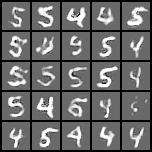
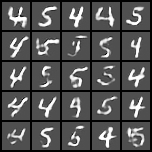
dark gan

diff --git a/discriminative/GAN.py b/discriminative/GAN.py
@@ -9,12 +9,8 @@ from torch.autograd import Variable
 import torch.nn as nn
 import torch
 
-os.makedirs('images', exist_ok=True)
-
-parser = argparse.ArgumentParser()
-opt, unknown = parser.parse_known_args()
 n_epochs = 50
-batch_size = 100
+batch_size = 64
 lr = 0.0002
 b1 = 0.5
 b2 = 0.999
@@ -24,7 +20,7 @@ num_classes = 2
 img_size = 28
 channels = 1
 sample_interval = 400
-threshold = 0.98
+threshold = 0.99
 device = torch.device("cuda:0" if torch.cuda.is_available() else "cpu")
 cuda = True if torch.cuda.is_available() else False
 FloatTensor = torch.cuda.FloatTensor if cuda else torch.FloatTensor
@@ -58,6 +54,8 @@ class VGR():
 
     def train(self, x_train, y_train):
         N = x_train.shape[0]
+        x_train -= 0.5
+        x_train /= 0.5
         for epoch in range(n_epochs):
 
             total_batch = int(np.ceil(N * 1.0 / batch_size))
@@ -178,14 +176,14 @@ class Generator(nn.Module):
         self.conv_blocks = nn.Sequential(
             nn.BatchNorm2d(128),
             nn.Upsample(scale_factor=2),
-            nn.Conv2d(128, 128, 5, stride=1, padding=2),
+            nn.Conv2d(128, 128, 3, stride=1, padding=1),
             nn.BatchNorm2d(128, 0.8),
             nn.LeakyReLU(0.2, inplace=True),
             nn.Upsample(scale_factor=2),
-            nn.Conv2d(128, 64, 5, stride=1, padding=2),
+            nn.Conv2d(128, 64, 3, stride=1, padding=1),
             nn.BatchNorm2d(64, 0.8),
             nn.LeakyReLU(0.2, inplace=True),
-            nn.Conv2d(64, channels, 5, stride=1, padding=2),
+            nn.Conv2d(64, channels, 3, stride=1, padding=1),
             nn.Tanh()
         )
 

diff --git a/discriminative/utils/vcl.py b/discriminative/utils/vcl.py
@@ -51,13 +51,13 @@ def run_vcl(hidden_size, no_epochs, data_gen, coreset_method, coreset_size=0, ba
 
         mf_model.update_prior()
         # Save weights before test (and last-minute training on coreset
-        mf_model.save_weights()
+        #mf_model.save_weights()
 
         acc = test.get_scores(mf_model, x_testsets, y_testsets, no_epochs, single_head, x_coresets, y_coresets, batch_size, False,gans)
         all_acc = test.concatenate_results(acc, all_acc)
 
-        mf_model.load_weights()
-        mf_model.clean_copy_weights()
+        #mf_model.load_weights()
+        #mf_model.clean_copy_weights()
 
 
         if not single_head:

diff --git a/discriminative/utils/test.py b/discriminative/utils/test.py
@@ -46,7 +46,7 @@ def get_scores(model, x_testsets, y_testsets, no_epochs, single_head,  x_coreset
     for i in range(len(x_testsets)):
         if not single_head:
             if len(x_coresets)>0 or gans is not None:
-                model.load_weights()
+                #model.load_weights()
                 gan_i = None
                 if gans is not None:
                     gan_i = gans[i]
